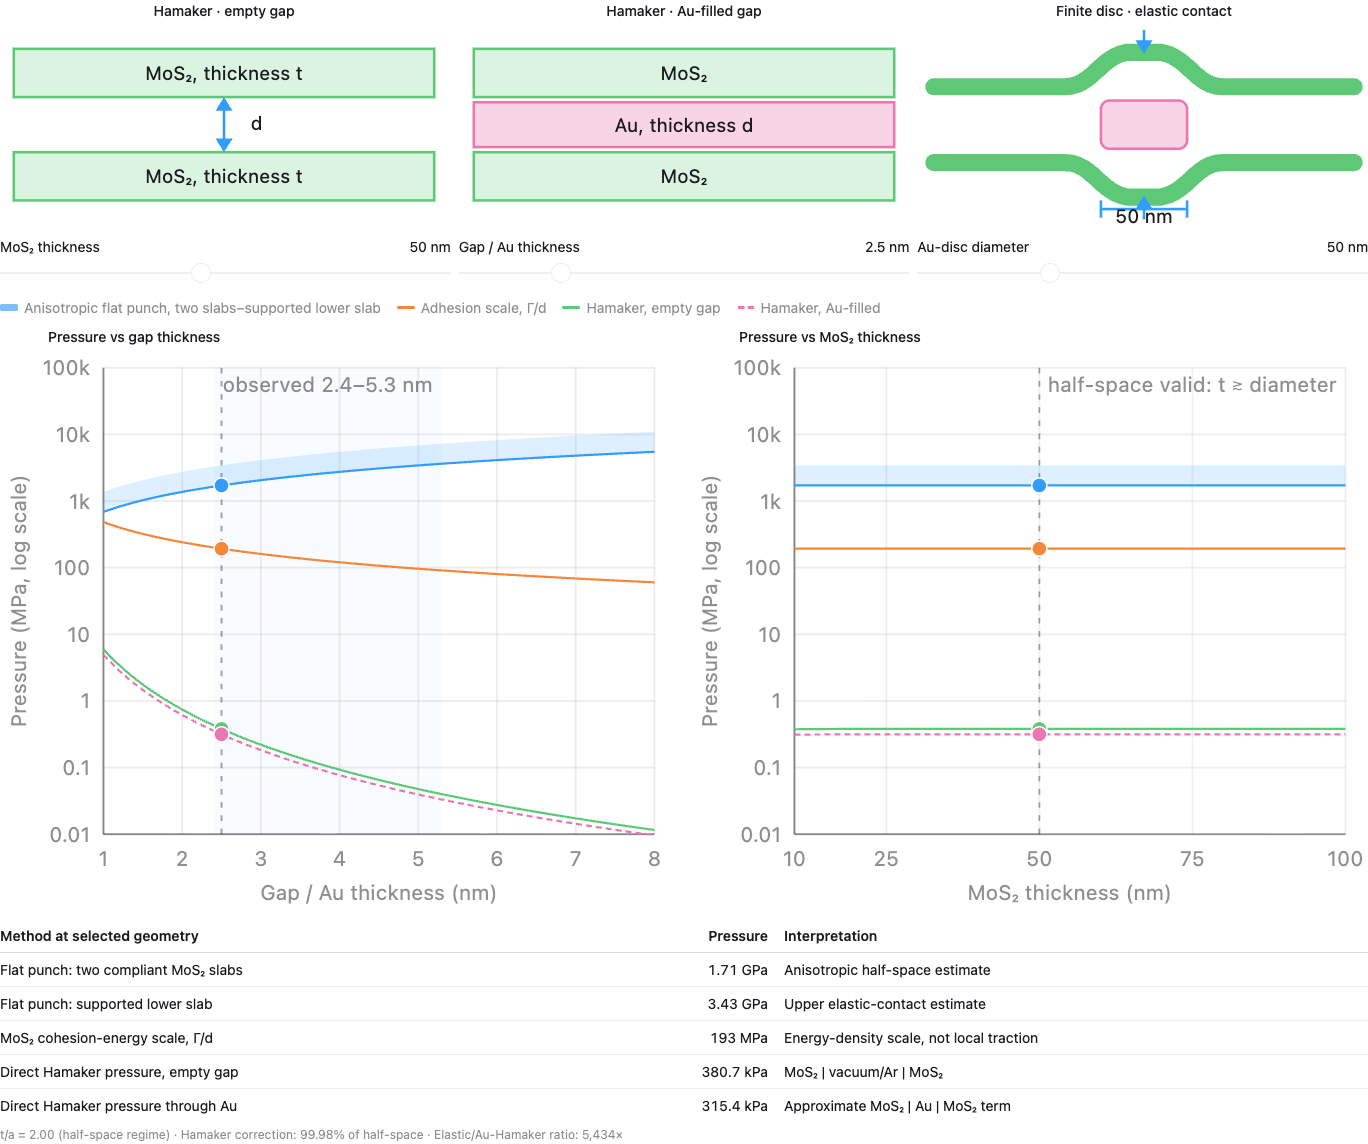
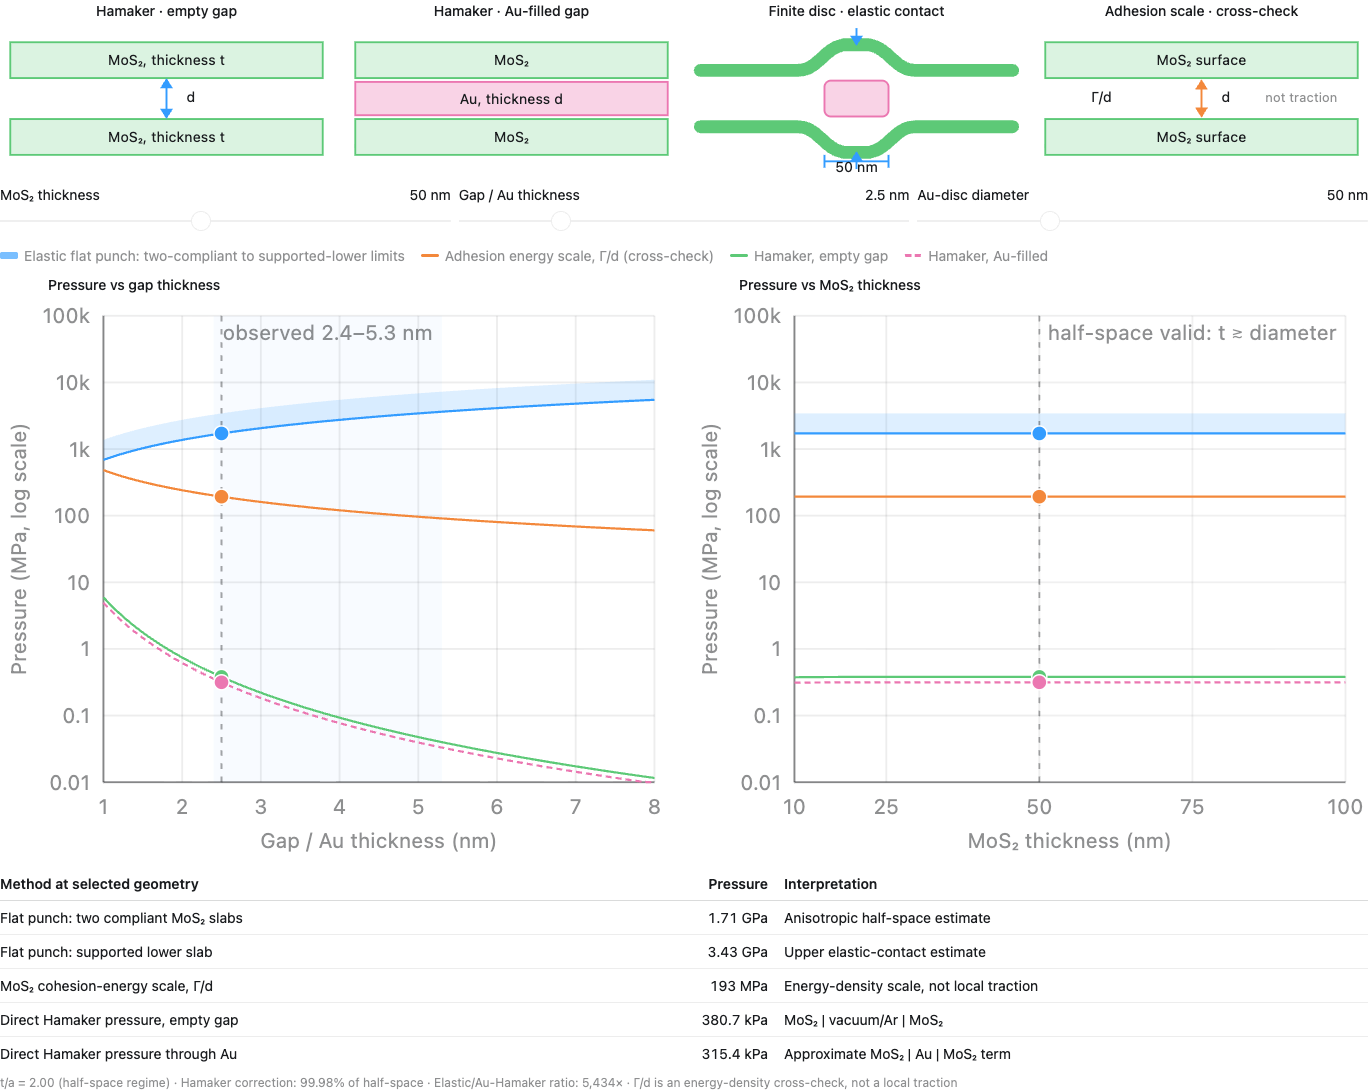
Clarify elastic and adhesion pressure scales

diff --git a/confinement-pressure-analysis/docs/index.html b/confinement-pressure-analysis/docs/index.html
@@ -875,7 +875,7 @@ html&gt;body{padding:0}&lt;/style&gt;
 &lt;/head&gt;
 &lt;body&gt;
 &lt;div id=&quot;mos2-pressure-50nm&quot;&gt;
-  &lt;div class=&quot;mpm-schematics&quot; aria-label=&quot;Three confinement models&quot;&gt;
+  &lt;div class=&quot;mpm-schematics&quot; aria-label=&quot;Four pressure-model explanations&quot;&gt;
     &lt;div class=&quot;mpm-schematic-wrap&quot;&gt;
       &lt;div class=&quot;mpm-schematic-label&quot;&gt;Hamaker · empty gap&lt;/div&gt;
       &lt;svg class=&quot;mpm-schematic&quot; viewBox=&quot;0 0 260 118&quot; role=&quot;img&quot; aria-label=&quot;Two finite molybdenum disulfide slabs separated by an empty gap&quot;&gt;
@@ -916,6 +916,21 @@ html&gt;body{padding:0}&lt;/style&gt;
         &lt;polygon points=&quot;130,100 125,108 135,108&quot; class=&quot;mpm-force-fill&quot;&gt;&lt;/polygon&gt;
       &lt;/svg&gt;
     &lt;/div&gt;
+    &lt;div class=&quot;mpm-schematic-wrap&quot;&gt;
+      &lt;div class=&quot;mpm-schematic-label&quot;&gt;Adhesion scale · cross-check&lt;/div&gt;
+      &lt;svg class=&quot;mpm-schematic&quot; viewBox=&quot;0 0 260 118&quot; role=&quot;img&quot; aria-label=&quot;Adhesion energy per area divided by gap thickness as a dimensional cross-check, not a separate geometry or local traction&quot;&gt;
+        &lt;rect x=&quot;8&quot; y=&quot;15&quot; width=&quot;244&quot; height=&quot;28&quot; class=&quot;mpm-mos2-fill&quot;&gt;&lt;/rect&gt;
+        &lt;rect x=&quot;8&quot; y=&quot;75&quot; width=&quot;244&quot; height=&quot;28&quot; class=&quot;mpm-mos2-fill&quot;&gt;&lt;/rect&gt;
+        &lt;text x=&quot;130&quot; y=&quot;33&quot; class=&quot;mpm-schematic-text&quot;&gt;MoS₂ surface&lt;/text&gt;
+        &lt;text x=&quot;130&quot; y=&quot;93&quot; class=&quot;mpm-schematic-text&quot;&gt;MoS₂ surface&lt;/text&gt;
+        &lt;line x1=&quot;130&quot; x2=&quot;130&quot; y1=&quot;49&quot; y2=&quot;69&quot; class=&quot;mpm-adhesion-stroke&quot;&gt;&lt;/line&gt;
+        &lt;polygon points=&quot;130,44 125,52 135,52&quot; class=&quot;mpm-adhesion-fill&quot;&gt;&lt;/polygon&gt;
+        &lt;polygon points=&quot;130,74 125,66 135,66&quot; class=&quot;mpm-adhesion-fill&quot;&gt;&lt;/polygon&gt;
+        &lt;text x=&quot;149&quot; y=&quot;62&quot; class=&quot;mpm-schematic-text&quot;&gt;d&lt;/text&gt;
+        &lt;text x=&quot;52&quot; y=&quot;62&quot; class=&quot;mpm-schematic-text&quot;&gt;Γ/d&lt;/text&gt;
+        &lt;text x=&quot;208&quot; y=&quot;62&quot; class=&quot;mpm-schematic-note&quot;&gt;not traction&lt;/text&gt;
+      &lt;/svg&gt;
+    &lt;/div&gt;
   &lt;/div&gt;
   &lt;div class=&quot;viz-controls&quot; aria-label=&quot;Simulation parameters&quot;&gt;
     &lt;label class=&quot;form-label&quot; for=&quot;mpm-thickness&quot;&gt;
@@ -933,8 +948,8 @@ html&gt;body{padding:0}&lt;/style&gt;
   &lt;/div&gt;
 
   &lt;div class=&quot;mpm-legend viz-row&quot; aria-label=&quot;Pressure models&quot;&gt;
-    &lt;span&gt;&lt;i class=&quot;mpm-swatch mpm-elastic&quot;&gt;&lt;/i&gt;Anisotropic flat punch, two slabs–supported lower slab&lt;/span&gt;
-    &lt;span&gt;&lt;i class=&quot;mpm-swatch mpm-adhesion&quot;&gt;&lt;/i&gt;Adhesion scale, Γ/d&lt;/span&gt;
+    &lt;span&gt;&lt;i class=&quot;mpm-swatch mpm-elastic&quot;&gt;&lt;/i&gt;Elastic flat punch: two-compliant to supported-lower limits&lt;/span&gt;
+    &lt;span&gt;&lt;i class=&quot;mpm-swatch mpm-adhesion&quot;&gt;&lt;/i&gt;Adhesion energy scale, Γ/d (cross-check)&lt;/span&gt;
     &lt;span&gt;&lt;i class=&quot;mpm-swatch mpm-empty&quot;&gt;&lt;/i&gt;Hamaker, empty gap&lt;/span&gt;
     &lt;span&gt;&lt;i class=&quot;mpm-swatch mpm-au&quot;&gt;&lt;/i&gt;Hamaker, Au-filled&lt;/span&gt;
   &lt;/div&gt;
@@ -981,7 +996,7 @@ html&gt;body{padding:0}&lt;/style&gt;
   }
   #mos2-pressure-50nm .mpm-schematics {
     display: grid;
-    grid-template-columns: repeat(3, minmax(0, 1fr));
+    grid-template-columns: repeat(4, minmax(0, 1fr));
     gap: 12px;
     margin-bottom: 10px;
   }
@@ -1025,9 +1040,21 @@ html&gt;body{padding:0}&lt;/style&gt;
   #mos2-pressure-50nm .mpm-force-fill {
     fill: var(--viz-series-1);
   }
+  #mos2-pressure-50nm .mpm-adhesion-stroke {
+    stroke: var(--viz-series-2);
+    stroke-width: 1.5;
+  }
+  #mos2-pressure-50nm .mpm-adhesion-fill {
+    fill: var(--viz-series-2);
+  }
   #mos2-pressure-50nm .mpm-schematic-text {
     fill: var(--foreground);
     font-size: 11px;
+    text-anchor: middle;
+  }
+  #mos2-pressure-50nm .mpm-schematic-note {
+    fill: var(--muted-foreground);
+    font-size: 10px;
     text-anchor: middle;
   }
   #mos2-pressure-50nm .viz-controls {
@@ -1139,6 +1166,9 @@ html&gt;body{padding:0}&lt;/style&gt;
   }
   #mos2-pressure-50nm #mpm-detail {
     margin-top: 5px;
+  }
+  @media (max-width: 900px) {
+    #mos2-pressure-50nm .mpm-schematics { grid-template-columns: repeat(2, minmax(0, 1fr)); }
   }
   @media (max-width: 620px) {
     #mos2-pressure-50nm .mpm-schematics { grid-template-columns: 1fr; }
@@ -1419,7 +1449,7 @@ html&gt;body{padding:0}&lt;/style&gt;
     const ratio = p.elastic / p.au;
     const thicknessRatio = state.thicknessNm / (state.diameterNm / 2);
     const validity = thicknessRatio &gt;= 2 ? &#x27;half-space regime&#x27; : &#x27;finite-thickness correction needed&#x27;;
-    outputs.detail.textContent = `t/a = ${thicknessRatio.toFixed(2)} (${validity}) · Hamaker correction: ${(100 * slabRatio).toFixed(2)}% of half-space · Elastic/Au-Hamaker ratio: ${ratio.toLocaleString(undefined, { maximumFractionDigits: 0 })}×`;
+    outputs.detail.textContent = `t/a = ${thicknessRatio.toFixed(2)} (${validity}) · Hamaker correction: ${(100 * slabRatio).toFixed(2)}% of half-space · Elastic/Au-Hamaker ratio: ${ratio.toLocaleString(undefined, { maximumFractionDigits: 0 })}× · Γ/d is an energy-density cross-check, not a local traction`;
 
     drawChart(root.querySelector(&#x27;#mpm-gap-chart&#x27;), &#x27;gap&#x27;, animate);
     drawChart(root.querySelector(&#x27;#mpm-thickness-chart&#x27;), &#x27;thickness&#x27;, animate);

diff --git a/confinement-pressure-analysis/README.md b/confinement-pressure-analysis/README.md
@@ -4,11 +4,12 @@
 
 This directory contains a reproducible estimate of the normal-pressure scales relevant to an Au nanodisc confined between two MoS₂ flakes during annealing. The calculation uses the experimentally relevant **50 nm mean Au-disc diameter**, approximately **50 nm MoS₂ thickness per flake**, and a **2.4–5.3 nm disc/gap thickness**.
 
-The models answer different physical questions and should not be added together:
+The figure compares three physical models and one dimensional cross-check. They answer different questions and should not be added together:
 
 1. **Finite-slab Hamaker pressure, empty gap** — direct MoS₂–MoS₂ attraction across vacuum/Ar.
 2. **Finite-slab Hamaker pressure, Au-filled gap** — an illustrative effective Lifshitz/Hamaker term across Au.
 3. **Finite-disc elastic contact** — the reaction stress needed for transversely anisotropic MoS₂ to conform to a 50 nm Au nanodisc.
+4. **Adhesion scale, Γ/d** — adhesion work per area divided by gap thickness; an energy-density cross-check, not a separate geometry or local traction.
 
 ![Schematics of the three pressure models](figures/model-schematics.svg)
 
